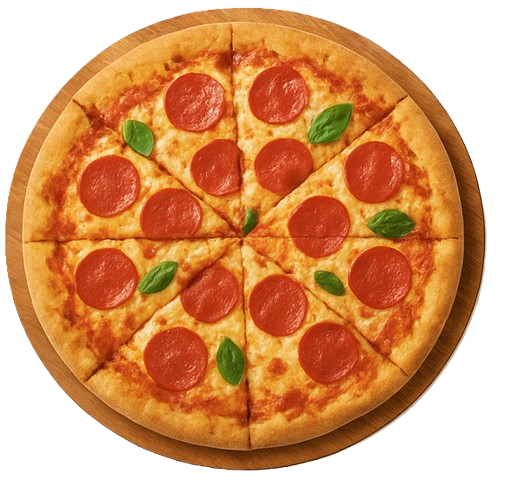
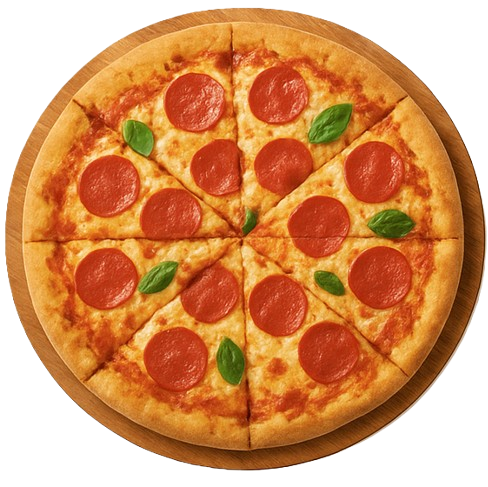
Landing page button and main cover

diff --git a/src/output.css b/src/output.css
@@ -7,13 +7,17 @@
       "Segoe UI Emoji", "Segoe UI Symbol", "Noto Color Emoji";
     --font-mono: ui-monospace, SFMono-Regular, Menlo, Monaco, Consolas, "Liberation Mono",
       "Courier New", monospace;
+    --color-red-500: oklch(63.7% 0.237 25.331);
     --color-amber-50: oklch(98.7% 0.022 95.277);
+    --color-amber-700: oklch(55.5% 0.163 48.998);
+    --color-white: #fff;
     --spacing: 0.25rem;
     --text-sm: 0.875rem;
     --text-sm--line-height: calc(1.25 / 0.875);
     --text-2xl: 1.5rem;
     --text-2xl--line-height: calc(2 / 1.5);
     --font-weight-bold: 700;
+    --radius-2xl: 1rem;
     --default-font-family: var(--font-sans);
     --default-mono-font-family: var(--font-mono);
   }
@@ -170,11 +174,38 @@
   .mt-2 {
     margin-top: calc(var(--spacing) * 2);
   }
+  .mt-3 {
+    margin-top: calc(var(--spacing) * 3);
+  }
+  .mt-5 {
+    margin-top: calc(var(--spacing) * 5);
+  }
+  .mt-8 {
+    margin-top: calc(var(--spacing) * 8);
+  }
+  .mt-10 {
+    margin-top: calc(var(--spacing) * 10);
+  }
   .mr-2 {
     margin-right: calc(var(--spacing) * 2);
   }
+  .mr-3 {
+    margin-right: calc(var(--spacing) * 3);
+  }
+  .mr-4 {
+    margin-right: calc(var(--spacing) * 4);
+  }
+  .mr-5 {
+    margin-right: calc(var(--spacing) * 5);
+  }
   .ml-2 {
     margin-left: calc(var(--spacing) * 2);
+  }
+  .ml-3 {
+    margin-left: calc(var(--spacing) * 3);
+  }
+  .ml-5 {
+    margin-left: calc(var(--spacing) * 5);
   }
   .flex {
     display: flex;
@@ -185,14 +216,38 @@
   .table {
     display: table;
   }
+  .h-5 {
+    height: calc(var(--spacing) * 5);
+  }
+  .h-7 {
+    height: calc(var(--spacing) * 7);
+  }
+  .h-10 {
+    height: calc(var(--spacing) * 10);
+  }
+  .h-20 {
+    height: calc(var(--spacing) * 20);
+  }
   .h-fit {
     height: fit-content;
   }
   .h-max {
     height: max-content;
   }
+  .w-5 {
+    width: calc(var(--spacing) * 5);
+  }
   .w-10 {
     width: calc(var(--spacing) * 10);
+  }
+  .w-20 {
+    width: calc(var(--spacing) * 20);
+  }
+  .w-25 {
+    width: calc(var(--spacing) * 25);
+  }
+  .w-28 {
+    width: calc(var(--spacing) * 28);
   }
   .w-30 {
     width: calc(var(--spacing) * 30);
@@ -212,6 +267,12 @@
   .justify-between {
     justify-content: space-between;
   }
+  .justify-center {
+    justify-content: center;
+  }
+  .rounded-2xl {
+    border-radius: var(--radius-2xl);
+  }
   .border {
     border-style: var(--tw-border-style);
     border-width: 1px;
@@ -219,8 +280,21 @@
   .bg-amber-50 {
     background-color: var(--color-amber-50);
   }
+  .bg-amber-700 {
+    background-color: var(--color-amber-700);
+  }
+  .bg-red-500 {
+    background-color: var(--color-red-500);
+  }
   .text-center {
     text-align: center;
+  }
+  .align-middle {
+    vertical-align: middle;
+  }
+  .text-2xl {
+    font-size: var(--text-2xl);
+    line-height: var(--tw-leading, var(--text-2xl--line-height));
   }
   .text-sm {
     font-size: var(--text-sm);
@@ -229,6 +303,9 @@
   .font-bold {
     --tw-font-weight: var(--font-weight-bold);
     font-weight: var(--font-weight-bold);
+  }
+  .text-white {
+    color: var(--color-white);
   }
   .underline {
     text-decoration-line: underline;

diff --git a/index.html b/index.html
@@ -9,7 +9,7 @@
     <nav>
       <div
         id="nav_container"
-        class="mt-2 ml-2 mr-2 h-fit flex justify-between items-center md:mt-5 md:ml-5 md:mr-5"
+        class="mt-3 ml-3 mr-3 h-fit flex justify-between items-center md:mt-5 md:ml-5 md:mr-5"
       >
         <div class="w-30 h-fit" id="logo_container">
           <img
@@ -28,7 +28,10 @@
           />
           <p class="font-bold text-sm">MENU</p>
         </div>
-        <div id="menu_big_screen" class="hidden md:h-fit md:w-1/2 md:flex md:justify-between md:font-bold">
+        <div
+          id="menu_big_screen"
+          class="hidden md:h-fit md:w-1/2 md:flex md:justify-between md:font-bold"
+        >
           <div>Home</div>
           <div>Menu</div>
           <div>About</div>
@@ -36,5 +39,17 @@
         </div>
       </div>
     </nav>
+    <div class="ml-5 mt-10 mr-5" id="main_cover">
+      <img
+        class="w-max h-max"
+        src="./images/Main Cover.png"
+        alt="Pizza image"
+        id="cover_image"
+      />
+    </div>
+    <h1 class="font-bold text-center mt-5 text-2xl">The Best Pizzas In Town</h1>
+    <div class="h-5 flex justify-center" id="button_container">
+      <div class="bg-red-500 mt-5 w-28 h-7 text-white font-bold text-center align-middle rounded-2xl" id="button_body">Order Now</div>
+    </div>
   </body>
 </html>
